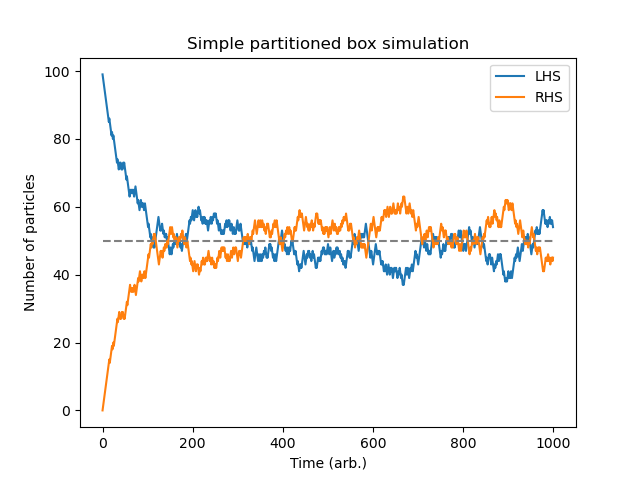
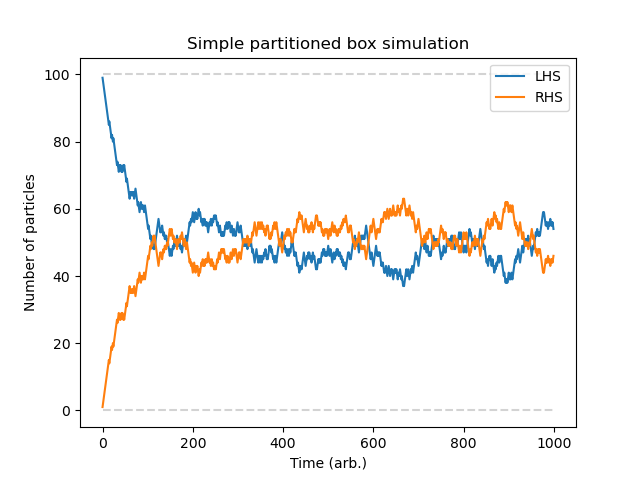
Partitioned box graphs

diff --git a/Partitioned.py b/Partitioned.py
@@ -36,39 +36,35 @@ tarray = np.zeros_like(Marray)
 for t in range(time): # simulating 1000s of time
     r = rng.uniform(0, 1) # Random number between 0 and 1
     frac = M/N # As no other factors are considered, this can be thought of as the probability of moving 
-    R = N-M
+    
     if r < frac: # if random number is less than the fraction, particle moves from LHS to RHS
         M = M-1
+        R = N-M
     elif r > frac:
         M = M+1 # otherwise, particle move from RHS to LHS
-    else: # if equilibrium, end as no more movement is possible
-        break
+        R = N-M
+
     Marray[t] = M
     Rarray[t] = R
     tarray[t] = t
 
+plt.figure()
 plt.plot(tarray,Marray,label = 'LHS')
 plt.plot(tarray,Rarray,label = 'RHS')
 plt.xlabel("Time (arb.)")
 plt.ylabel("Number of particles")
 plt.title("Simple partitioned box simulation")
-plt.hlines(50,0,time,color = 'grey', linestyle = '--')
+plt.hlines(0,tarray[0],tarray[time-1], color = 'lightgrey', linestyle = '--')
+plt.hlines(N,tarray[0],tarray[time-1], color = 'lightgrey', linestyle = '--')
 plt.legend()
 plt.savefig("IMAGES/Simple partitioned box")
-plt.show()
+ 
 
-N = 100 # Initial number of particles in the entire box
-M = 100 # initial number of particles on the L.H.S
-time = 1000
-Marray = np.zeros(time)
-Rarray = np.zeros_like(Marray)
-tarray = np.zeros_like(Marray)
-
-def simple_partition(N,M,time,frac):
+def simple_partition(N,M,time,prob):
     
-    rng = Generator(PCG64(seed=3))
     """ Simple partitioned box simulation, where particles movement is dictated only by 
-    the probability of moving to the other side of the partition.
+    the probability of moving to the other side of the partition. This method tracks only the no.
+    of particles on each side of the partition.
     
     Args:
         N: Total number of particles in the box
@@ -77,31 +73,59 @@ def simple_partition(N,M,time,frac):
         frac (0 <= frac <= 1): Probability of a particle moving from the L.H.S to the R.H.S
     """
 
+    funcstarttime = perf_counter()
     Marray = np.zeros(time)
     Rarray = np.zeros_like(Marray)
     tarray = np.zeros_like(Marray)
      
     for t in range(time):
         r = rng.uniform(0, 1)
-        R = N-M # Number of particles on the R.H.S
-        #frac = M/N
-        if r < frac: # if random number is less than the fraction, particle moves from LHS to RHS
-            M = M-1
-        elif r > frac:
-            M = M+1 # otherwise, particle move from RHS to LHS
-        else: # if equilibrium, end as no more movement is possible
-            break
-        
+        R = N-M
+
+        if r < prob: # if random number is less than the fraction, particle moves from LHS to RHS
+            M -= 1
+            R = N-M
+            if M >= N:
+                M = N
+            if R >= N:
+                R = N
+
+            if M <= 0:
+                M = 0 
+            if R <= 0:
+                R = 0
+
+        elif r > prob:
+            M += 1 # otherwise, particle move from RHS to LHS
+            R = N-M
+            if M >= N:
+                M = N
+            if R >= N:
+                R = N
+
+            if M <= 0:
+                M = 0 
+            if R <= 0:
+                R = 0
+
         Marray[t] = M
         Rarray[t] = R
         tarray[t] = t
+    funcendtime = perf_counter()
+    elapsed_time = np.round((funcendtime - funcstarttime)*1e3,4)
+
+    plt.figure()
     plt.plot(tarray,Marray,label = 'LHS')
     plt.plot(tarray,Rarray,label = 'RHS')
+    plt.hlines(0,tarray[0],tarray[time-1], color = 'lightgrey', linestyle = '--')
+    plt.hlines(N,tarray[0],tarray[time-1], color = 'lightgrey', linestyle = '--')
     plt.xlabel("Time (arb.)")
     plt.ylabel("Number of particles")
-    plt.title('Simple partitioned box simulation\n P(LHS $\longrightarrow$ RHS) = {}'.format(frac))
+    plt.title('Simple partitioned box simulation\n P(LHS $\longrightarrow$ RHS) = {}'.format(prob))
     plt.legend()
-    plt.savefig("IMAGES/Simple partitioned box, 75")
+    plt.savefig("IMAGES/Simple partitioned box_{}".format(int(prob*100)))
     plt.show()
+    print("Simulation time = ${}m s$".format(elapsed_time))
 
-simple_partition(100,100,1000,0.75)
+for i in range(3):
+    simple_partition(100,100,1000,0.25*(i+1))
